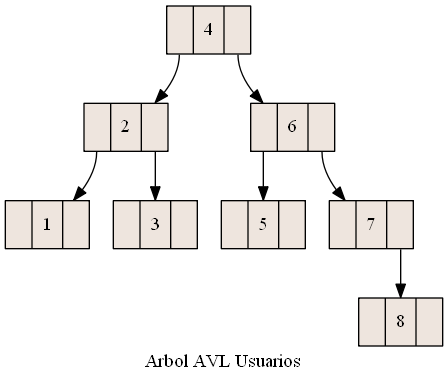
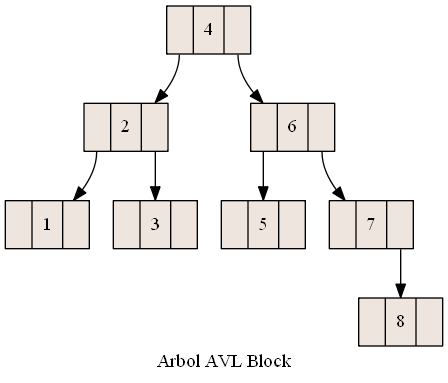
Graph AVL complete

Changed region(s): [[0.3125, 0.9191, 0.6875, 0.9765]]

diff --git a/Menu.py b/Menu.py
@@ -1,0 +1,55 @@
+import json
+from Structures.AVL import AVL
+from Structures.AVL import NodeAVL
+class dataNode:
+    def __init__(self,name,key,left,right):
+        self.key=key
+        self.name=name
+        self.left=left
+        self.right=right
+class Menu:
+    def castJson(self):
+
+        # json data string
+        avlData = '{"value":"Armando-201701029", "left":{"value":"Kyara-2017010265", "left":{"value":"Mocica-2017010265", "left":null, "right":null}, "right":{"value":"Mike-201875498", "left":null, "right":null}}, ' \
+                  '"right":{"value":"Aylin-2015478524", "left":{"value":"Lucy-2017010265", "left":null, "right":null}, ' \
+                  '"right":{"value":"DulMa-2017010265", "left":{"value":"Karol-201524156", "left":null, "right":null}, "right":{"value":"Emiliana-2017010265", "left":{"value":"DJ-20170102785", "left":null, "right":null}, "right":null}}}}'
+        # Decoding or converting JSON format in dictionary using loads()
+        dict_obj = json.loads(avlData)
+        print(dict_obj)
+        value=None
+        left=None
+        right=None
+        value = dict_obj["value"].split("-")
+        left = dict_obj["left"]
+        right = dict_obj["right"]
+        data=dataNode(value[0],value[1],left,right)
+        self.craeteAVL(data.name,data.key,data.left,data.right)
+    def craeteAVL(self,name,key,left,right):
+        avl = AVL()
+        root = None
+        root = NodeAVL(key,name)
+        root.right = NodeAVL(right["value"].split("-")[0],right["value"].split("-")[1])
+        root.right = self.retornNode(root.right," "," ",right["left"],right["right"])
+        root.left = NodeAVL(left["value"].split("-")[0],left["value"].split("-")[1])
+        root.left = self.retornNode(root.left, " ", " ", left["left"], left["right"])
+        avl.graphAVL(root)
+        avl.graficarAvl()
+    def retornNode(self,root,key,name,left,right):
+        if left!=None:
+            valLeft = left["value"].split("-")
+        if right!=None:
+            valRigt = right["value"].split("-")
+        if root is None:
+            return NodeAVL(key,name)
+        if root.right is None and right != None:
+            root.right = self.retornNode(root.right,valRigt[0],valRigt[1],left,right)
+        elif root.left is None and left !=None:
+            root.left = self.retornNode(root.left, valLeft[0], valLeft[1], left, right)
+        if right !=None:
+            root.right = self.retornNode(root.right, valRigt[0], valRigt[1], right["left"], right["right"])
+        if left!=None:
+            root.left = self.retornNode(root.left, valLeft[0], valLeft[1], left["left"], left["right"])
+        return root
+menu = Menu()
+menu.castJson()

diff --git a/Structures/AVL.py b/Structures/AVL.py
@@ -1,7 +1,8 @@
 import os
 class NodeAVL:
-    def __init__(self, key):
+    def __init__(self, key,name):
         self.key = key
+        self.name = name
         self.left = None
         self.right = None
         self.alt = 1
@@ -11,13 +12,13 @@ class AVL:
         self.rela=""
         self.inicio = 'digraph grafica{\nrankdir=TB;\n label=\"Arbol AVL Block\"; \n node [shape = record, style=filled, fillcolor=seashell2];\n'
 
-    def addNode(self, root, key):
+    def addNode(self, root, key,name):
         if root is None:
-            return NodeAVL(key)
+            return NodeAVL(key,name)
         elif key < root.key:
-            root.left = self.addNode(root.left, key)
+            root.left = self.addNode(root.left, key,name)
         else:
-            root.right = self.addNode(root.right, key)
+            root.right = self.addNode(root.right, key,name)
         if self.getNum(root) > 1 and key < root.left.key:
             return self.rotacionDerecha(root)
         if self.getNum(root) < -1 and key > root.right.key:
@@ -49,9 +50,12 @@ class AVL:
         z.alt = 1 + max(self.getalt(z.left),self.getalt(z.right))
         newRoot.alt = 1 + max(self.getalt(newRoot.left),self.getalt(newRoot.right))
         return newRoot
+    def rotation(self,root):
+        print("")
     def graphAVL(self,root):
         if root != None:
-            self.nodes = self.nodes + "nodo" + str(root.key) + " " + '[ label = \"<C0>|' + str(root.key) + '|<C1>\"];\n'
+            data = "Name: "+str(root.key)+"\n"+" Carne: " + root.name
+            self.nodes = self.nodes + "nodo" + str(root.key) + " " + '[ label = \"<C0>|'+data+'|<C1>\"];\n'
             if root.left != None:
                 self.rela = self.rela + "nodo" + str(root.key) + ":C0->" + "nodo" + str(root.left.key) + "\n"
             if root.right != None:
@@ -81,7 +85,7 @@ class AVL:
         print("{0} ".format(root.key), end="")
         self.preOrder(root.left)
         self.preOrder(root.right)
-avlTree = AVL()
+"""avlTree = AVL()
 root = None
 
 root = avlTree.addNode(root, 1)
@@ -96,4 +100,4 @@ root = avlTree.addNode(root, 8)
 
 avlTree.preOrder(root)
 avlTree.graphAVL(root)
-avlTree.graficarAvl()
+avlTree.graficarAvl()"""
